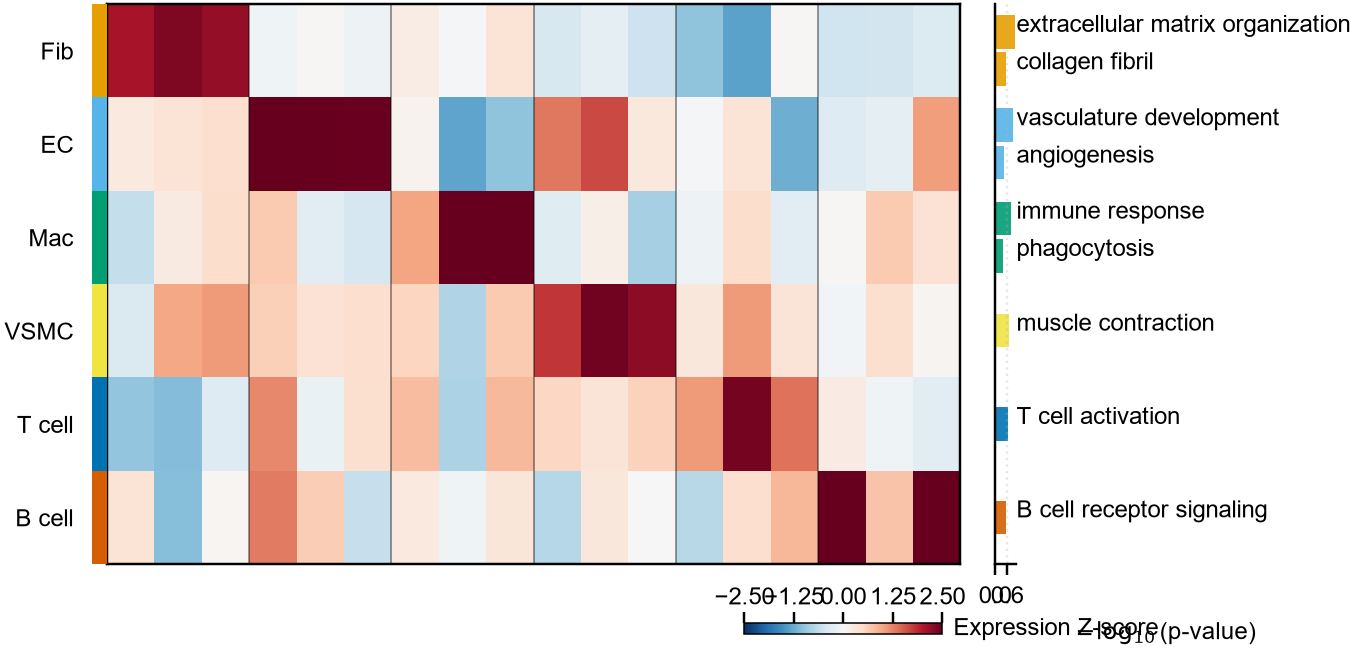
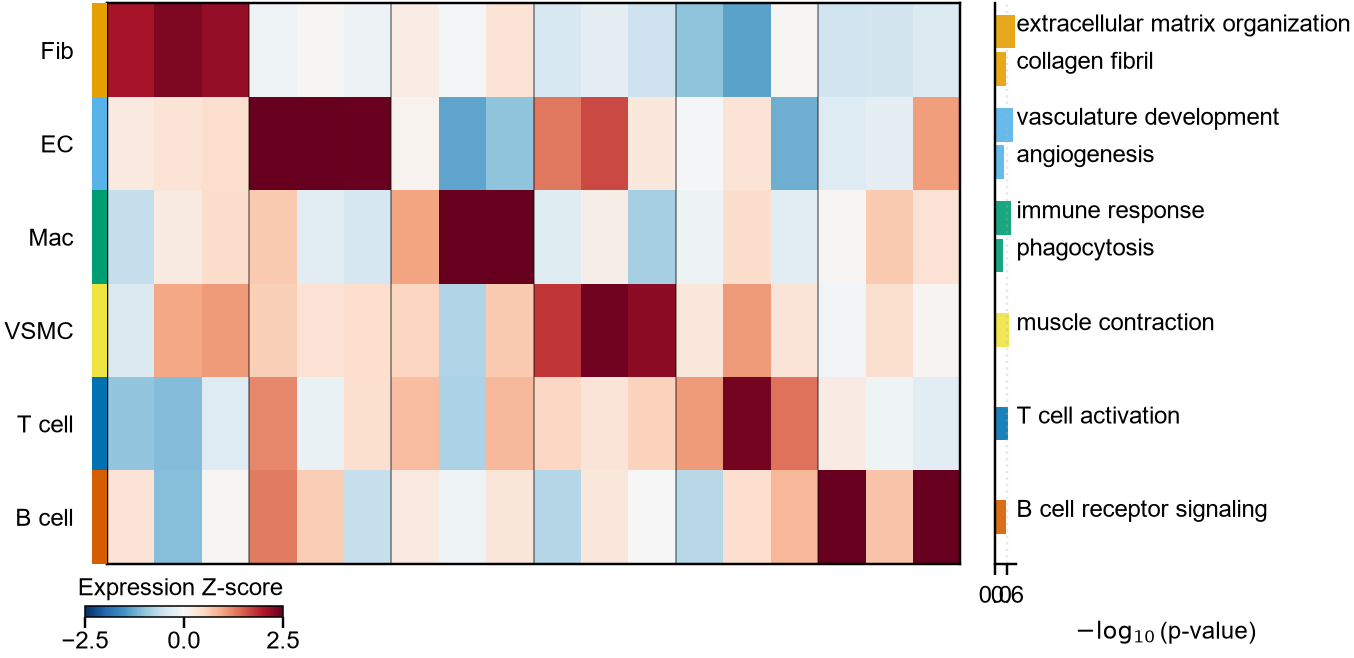
row_bars: 迷你色条 v5 定稿(横条热图下方+刻度条下+标签条上, 四方位冲突实测后落位); bar_width_target 柱区宽上限保留

diff --git a/drawing_yh/heatmap/row_bars.py b/drawing_yh/heatmap/row_bars.py
@@ -219,27 +219,24 @@ def heatmap_with_row_bars(
         for x in np.cumsum(list(block_sizes))[:-1]:
             ax_heat.axvline(x - 0.5, color="k", lw=0.5, alpha=0.5)
 
-    # 迷你色条(2026-09-20 杨航三轮): 横窄条右下角, 完整刻度 4 个 + 标题, 与热图留隙不重合。
+    # 迷你色条 v5(2026-09-21 杨航: 小+标签不省+不重合): 横条放热图正下方,
+    # 刻度在条下方(底缘留 0.11in), 标签在条上方左起 —— 上下分层互不撞, 全在热图列内。
     fw, fh = fig.get_size_inches()
     fig.canvas.draw()
     _hb = ax_heat.get_window_extent(fig.canvas.get_renderer())
-    left_in = _hb.x1 / fig.dpi - 0.9   # 热图右缘下(迷你版; 右下角会撞轴刻度, 实测)
-    if left_in < _hb.x0 / fig.dpi:
-        left_in = _hb.x0 / fig.dpi
-    # 底部定位: 热图下缘以下留 0.10 in 间隙(实测 bbox 不相交), 贴图底缘
-    bot_in = max(0.02, _hb.y0 / fig.dpi - 0.10 - 0.05)
-    cbax = fig.add_axes([left_in / fw, bot_in / fh, min(0.9, _hb.width / fig.dpi) / fw, 0.05 / fh],
+    _cx0 = max(_hb.x0 / fig.dpi, 0.06)
+    _cw = min(0.85 * _hb.width / fig.dpi, 0.9)
+    _cy0 = max(0.17, _hb.y0 / fig.dpi - 0.42)
+    cbax = fig.add_axes([_cx0 / fw, _cy0 / fh, _cw / fw, 0.05 / fh],
                         label="mini_cbar", in_layout=False)
     cbar = fig.colorbar(im, cax=cbax, orientation="horizontal")
     vmin_, vmax_ = im.get_clim()
-    ticks_ = [vmin_, vmin_ / 2, 0.0, vmax_ / 2, vmax_] if vmin_ < 0 < vmax_ else [vmin_, (vmin_ + vmax_) / 2, vmax_]
+    ticks_ = [vmin_, 0.0, vmax_] if vmin_ < 0 < vmax_ else [vmin_, vmax_]
     cbar.set_ticks(ticks_)
-    cbar.ax.tick_params(labelsize=font, pad=1, top=True, labeltop=True,
-                        bottom=False, labelbottom=False)   # 刻度在条上方
-    # 标题不省且不出界(2026-09-20 杨航): 放条右端外侧, 水平一行
-    cbx = cbax.get_position()
-    fig.text(cbx.x1 + 0.008, cbx.y0 + 0.025 / fh, cbar_label,
-             fontsize=font, ha="left", va="center")
+    cbar.ax.tick_params(labelsize=font, pad=1, top=False, labeltop=False,
+                        bottom=True, labelbottom=True)   # 刻度在条下方
+    fig.text((_cx0 + _cw) / fw, _cy0 / fh + 0.075 / fh, cbar_label,
+             fontsize=font, ha="right", va="bottom")   # 标签在条上方右对齐(向左排, 不伸入右区)
     cbar.outline.set_linewidth(0.5)
 
     if row_color_strip and colors is not None:
